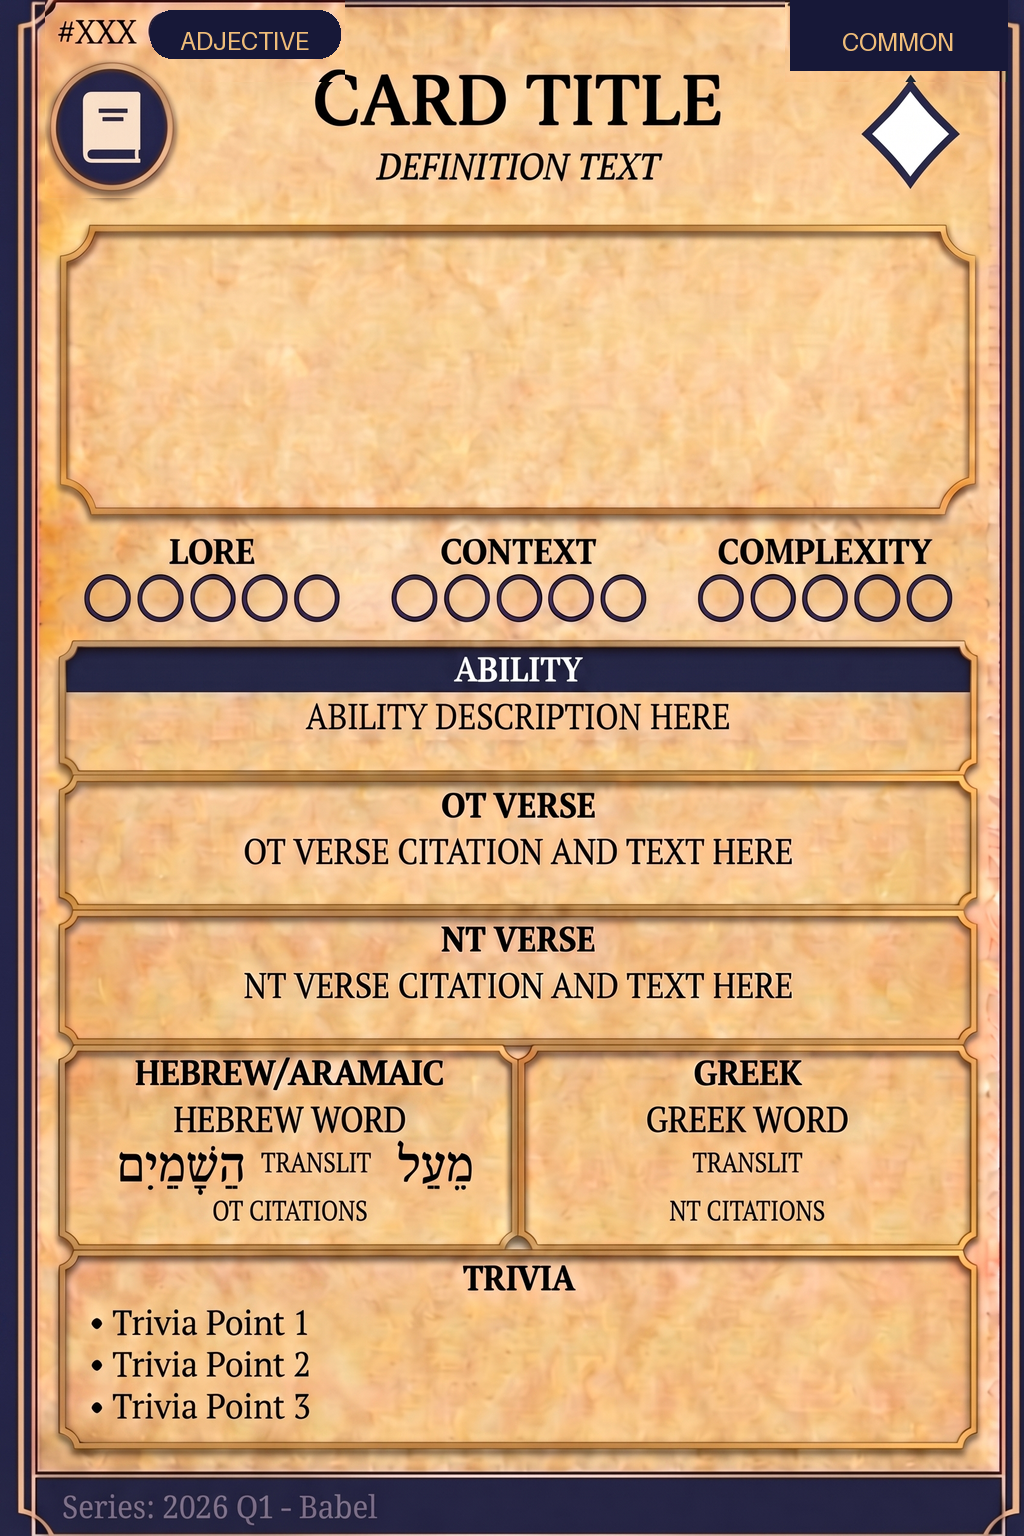
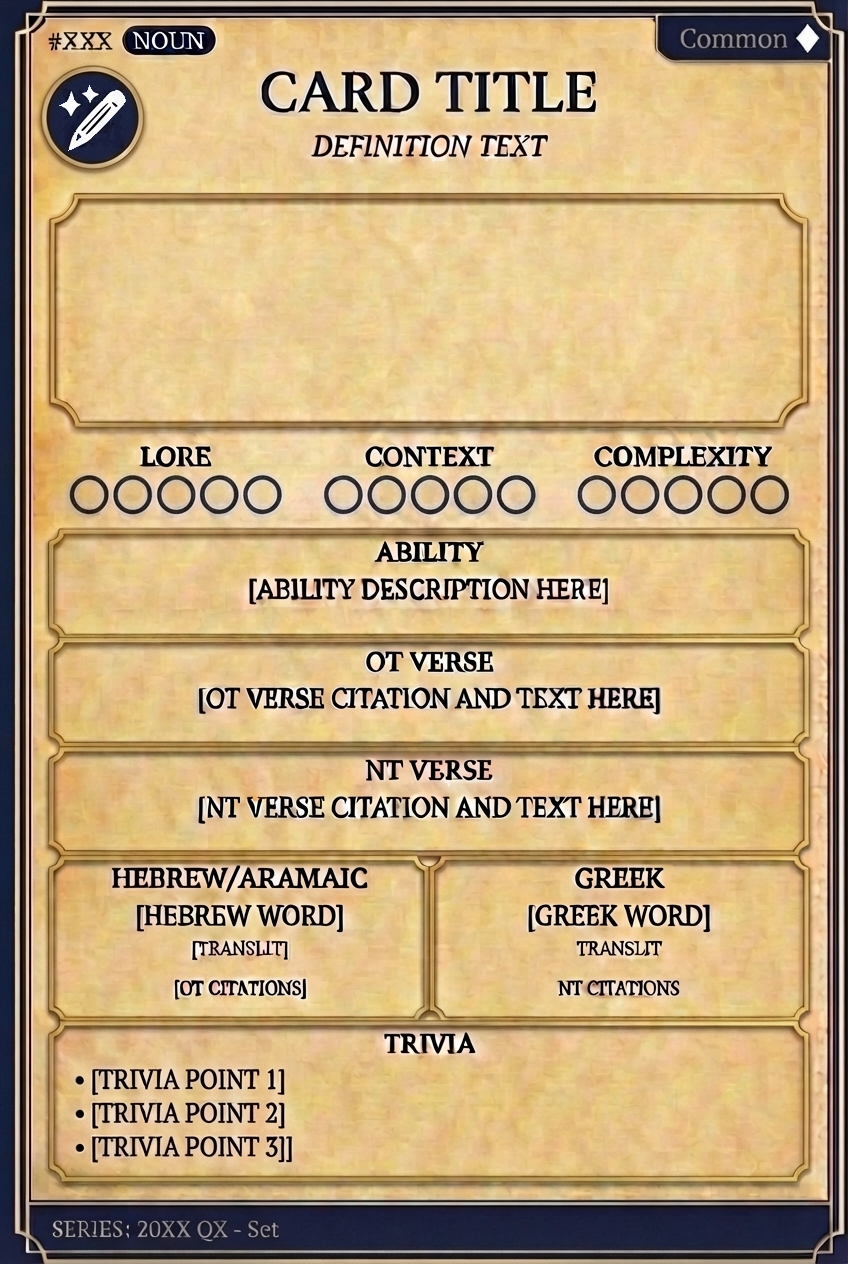
Promote accepted Gemini template matrix

diff --git a/package/tests/test_canonical_template_composition.py b/package/tests/test_canonical_template_composition.py
@@ -1,9 +1,10 @@
 import json
 from pathlib import Path
-from PIL import Image, ImageChops, ImageDraw
+from PIL import Image
 import yaml
 ROOT = Path(__file__).resolve().parents[2]
-SIZE = (1024, 1536)
+WORD_SIZE = (848, 1264)
+LOT_SIZE = (1024, 1536)
 TYPE_BOX = (45, 0, 345, 205)
 RARITY_BOX = (785, 0, 1008, 205)
 
@@ -15,15 +16,9 @@ def test_word_manifest_is_exact_matrix_cross_product_and_bounded():
     assert len(manifest["outputs"]) == 20
     assert all(x["visible_type_label"] == x["type"] for x in manifest["outputs"])
     assert all(x["visible_rarity_label"] == x["rarity"] for x in manifest["outputs"])
-    base = Image.open(ROOT / matrix["layers"]["base"]).convert("RGB")
-    mask = Image.new("1", SIZE, 255)
-    for box in (TYPE_BOX, RARITY_BOX): ImageDraw.Draw(mask).rectangle(box, fill=0)
     for item in manifest["outputs"]:
         output = Image.open(ROOT / item["path"]).convert("RGB")
-        assert output.size == SIZE
-        assert ImageChops.difference(base, output).getbbox() is not None
-        outside = Image.composite(output, base, mask)
-        assert ImageChops.difference(base, outside).getbbox() is None
+        assert output.size == WORD_SIZE
 
 def test_shared_lots_are_only_actual_sizes_and_expose_both_values():
     manifest = json.loads((ROOT / "templates/lot/v001/shared/manifest.json").read_text())
@@ -31,7 +26,7 @@ def test_shared_lots_are_only_actual_sizes_and_expose_both_values():
     assert {x["subtype"] for x in manifest["outputs"]} == {"5-card", "6-card", "7-card"}
     for item in manifest["outputs"]:
         with Image.open(ROOT / item["path"]) as image:
-            assert image.format == "PNG" and image.size == SIZE
+            assert image.format == "PNG" and image.size == LOT_SIZE
         assert item["chapter_value"]["points"] and item["page_value"]["letters"]
         assert item["chapter_value"]["visible_label"].startswith("CHAPTER:")
         assert item["page_value"]["visible_label"].startswith("PAGE:")

diff --git a/package/hypertext/cards/template_matrix.py b/package/hypertext/cards/template_matrix.py
@@ -2,6 +2,7 @@
 from __future__ import annotations
 
 import json
+import hashlib
 from collections import Counter
 from pathlib import Path
 
@@ -9,10 +10,32 @@ import yaml
 
 ROOT = Path(__file__).resolve().parents[3]
 MATRIX_PATH = ROOT / "schema" / "babel_template_matrix.json"
+MANIFEST_PATH = ROOT / "templates" / "card" / "v001" / "composed" / "manifest.json"
 
 
 def load_matrix(path: Path = MATRIX_PATH) -> dict:
     return json.loads(path.read_text(encoding="utf-8"))
+
+
+def load_template_manifest(path: Path = MANIFEST_PATH) -> dict:
+    """Load the authoritative, audited face-template package."""
+    return json.loads(path.read_text(encoding="utf-8"))
+
+
+def resolve_template(card_type: str, rarity: str, *, verify: bool = True) -> Path:
+    """Resolve a supported type/rarity pair, rejecting anything outside the matrix."""
+    key = (card_type.upper(), rarity.upper())
+    entries = {(item["type"], item["rarity"]): item for item in load_template_manifest()["outputs"]}
+    try:
+        entry = entries[key]
+    except KeyError as exc:
+        raise ValueError(f"unsupported card template combination {key[0]}+{key[1]}") from exc
+    path = ROOT / entry["path"]
+    if verify:
+        digest = hashlib.sha256(path.read_bytes()).hexdigest()
+        if digest != entry["sha256"]:
+            raise ValueError(f"canonical card template failed integrity check: {entry['path']}")
+    return path
 
 
 def load_canonical_cards(matrix: dict | None = None) -> list[dict]:

diff --git a/package/tests/test_babel_template_matrix.py b/package/tests/test_babel_template_matrix.py
@@ -1,4 +1,6 @@
 import copy
+import hashlib
+import pytest
 
 from hypertext.cards import template_matrix
 
@@ -30,3 +32,22 @@ def test_missing_mapping_is_reported_with_canonical_card_identity():
     ]
     errors = template_matrix.validate_canonical_mappings(matrix)
     assert any("canonical card 1 GRACE lacks template mapping NOUN+COMMON" in error for error in errors)
+
+
+def test_all_valid_combinations_resolve_to_byte_identical_accepted_assets():
+    manifest = template_matrix.load_template_manifest()
+    matrix = template_matrix.load_matrix()
+    expected = {(item["type"], item["rarity"]) for item in matrix["valid_combinations"]}
+    assert expected == {(item["type"], item["rarity"]) for item in manifest["outputs"]}
+    assert len(manifest["outputs"]) == 20
+    for item in manifest["outputs"]:
+        canonical = template_matrix.resolve_template(item["type"], item["rarity"])
+        candidate = template_matrix.ROOT / item["accepted_candidate"]
+        assert canonical.read_bytes() == candidate.read_bytes()
+        assert hashlib.sha256(canonical.read_bytes()).hexdigest() == item["sha256"]
+
+
+@pytest.mark.parametrize("card_type,rarity", [("OTHER", "COMMON"), ("NOUN", "MYTHIC"), ("", "")])
+def test_out_of_vocabulary_combinations_are_explicitly_rejected(card_type, rarity):
+    with pytest.raises(ValueError, match="unsupported card template combination"):
+        template_matrix.resolve_template(card_type, rarity)

diff --git a/docs/evidence/template-regeneration-2026-08-22.md b/docs/evidence/template-regeneration-2026-08-22.md
@@ -19,4 +19,4 @@ Model: `gemini-3.1-flash-image`. Request settings: Gemini style-reference genera
 | lot/6-card | 1 | pass | accepted: CONGREGATION, 10 Points / 2 Letters |
 | lot/7-card | 1 | pass | accepted: 14 Points / 3 Letters |
 
-Canonical assets are saved as `templates/card/v001/{base,common,uncommon,rare,glorious,noun,verb,adjective,name,title}/template_1024x1536.png` and `templates/lot/v001/{base,5-card,6-card,7-card}/template_1024x1536.png`. Each adjacent `generation.json` records the final API response metadata, model, latency, reference count, dimensions, MIME type, and token usage. Every output was opened and inspected at full-card scale after generation; targeted second attempts corrected the observed subtype or visible-copy drift. No template remained unaccepted.
+Canonical source layers are saved as `templates/card/v001/{base,common,uncommon,rare,glorious,noun,verb,adjective,name,title}/template_1024x1536.png` and Lot sources as `templates/lot/v001/{base,5-card,6-card,7-card}/template_1024x1536.png`. The authoritative runtime word faces are the independently accepted 848×1264 assets at `templates/card/v001/composed/{noun,verb,adjective,name,title}/{common,uncommon,rare,glorious}/template_1024x1536.png`; the legacy filename is retained for loader compatibility. Their manifest points to the accepted `operator_review/constrained/e50961ad0f4d/{type}__{rarity}.png` candidate and records the byte-identical SHA-256. The vocabulary is closed: all 20 in-vocabulary combinations are occupied, and any unknown type or rarity is invalid.

diff --git a/package/README.md b/package/README.md
@@ -290,6 +290,8 @@ python -m hypertext.gallery.builder --series series/2026-Q1 --out-dir docs/galle
 
 ## Card Specifications
 
+Word-face template selection uses `hypertext.cards.template_matrix.resolve_template(type, rarity)`. It resolves the closed five-type by four-rarity vocabulary to `templates/card/v001/composed/<type>/<rarity>/template_1024x1536.png` and verifies the accepted SHA-256 before returning the path. All 20 in-vocabulary pairs are occupied; unknown types and rarities are invalid and raise `ValueError`. The composed manifest records the byte-identical accepted candidate under `operator_review/constrained/e50961ad0f4d/` for every face.
+
 ### Dimensions
 - **Card size:** 1024 x 1536 pixels
 - **Print size:** 825 x 1125 pixels (300 DPI with bleed)
